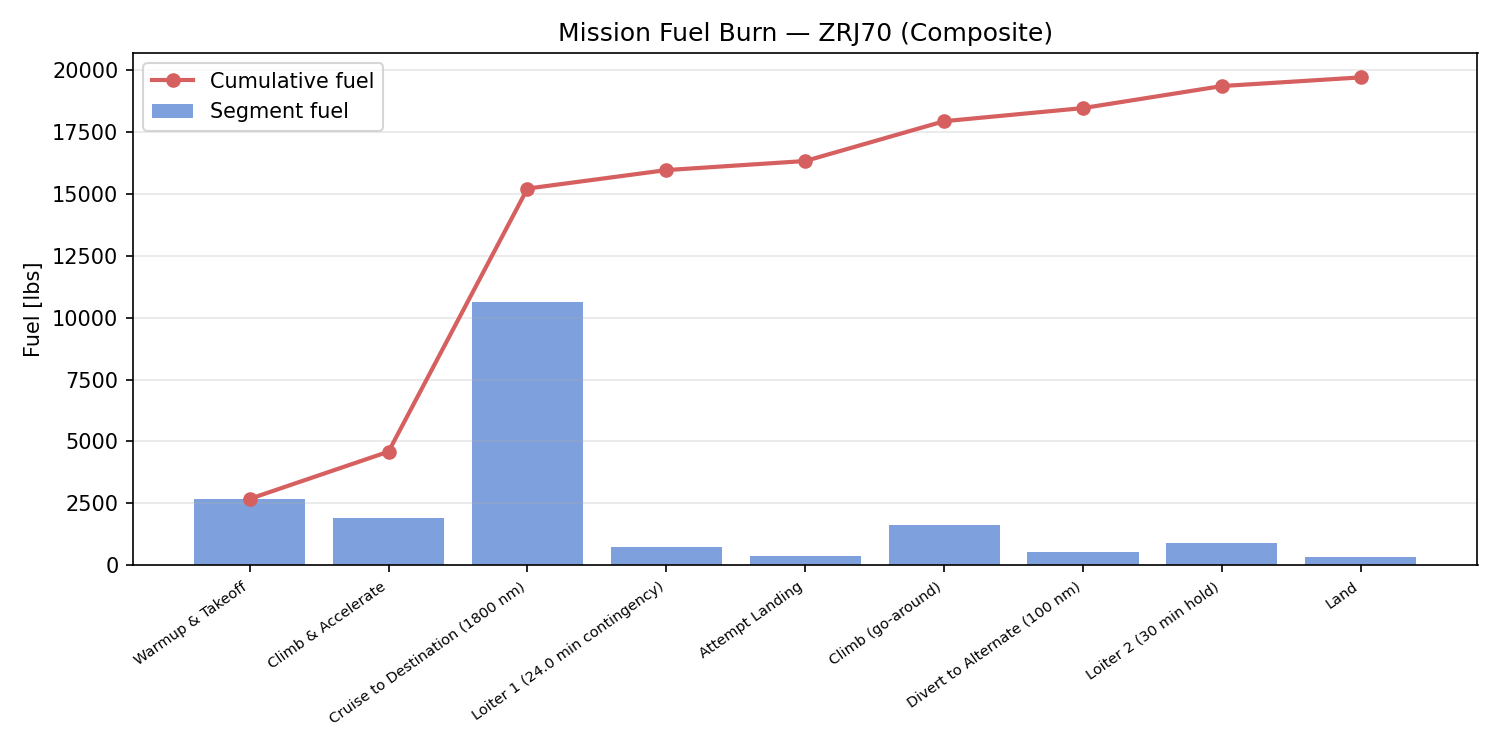
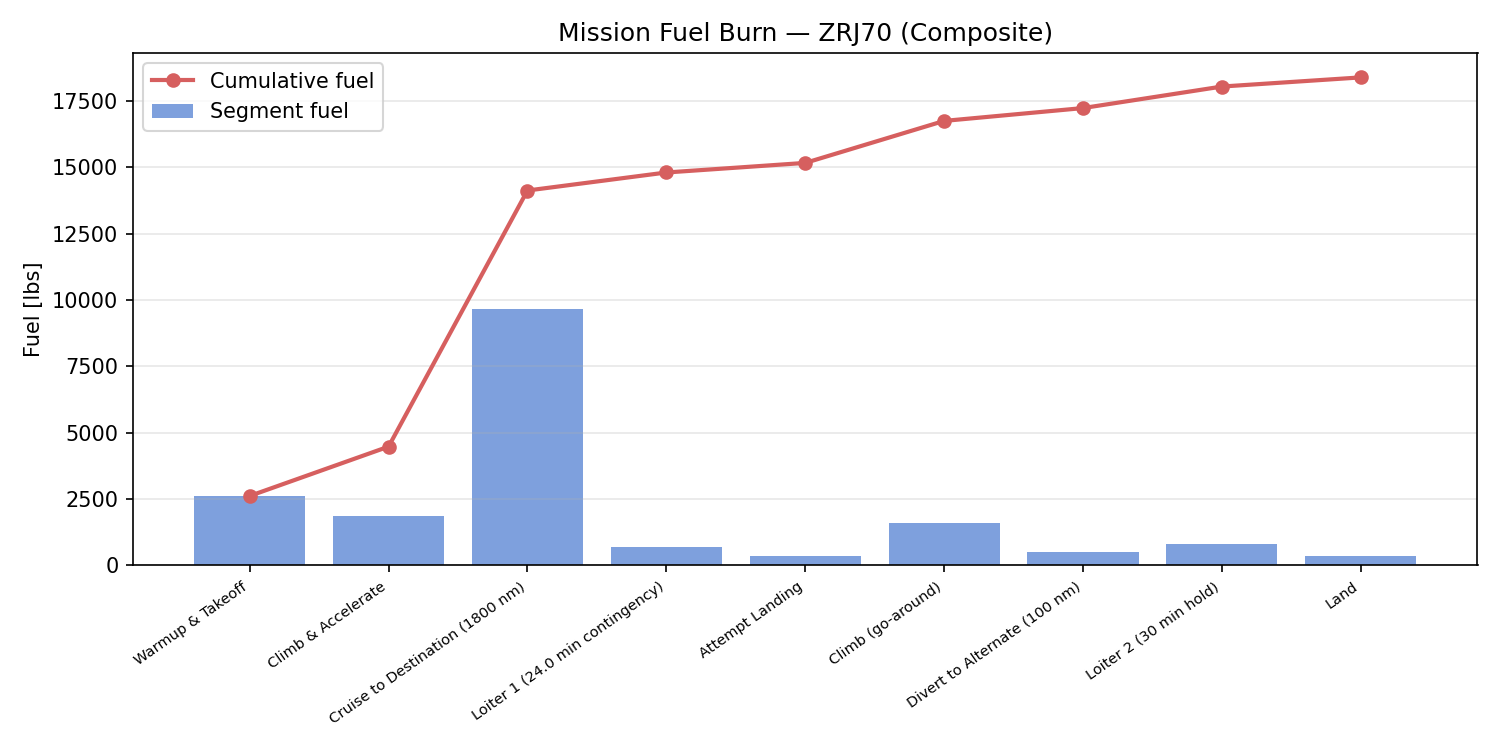
Update TSFC to realistic PW1200G values (0.46/0.37)
Replaced Raymer Table 3.3 era TSFC (0.50/0.40) with modern GTF
estimates for PW1200G at BPR 9. Updated all results, plots, and README.

diff --git a/data/ZRJ100.py b/data/ZRJ100.py
@@ -29,8 +29,8 @@ AIRCRAFT = {
 
     # --- Engine (PW1200G) ---
     "engine_name": "PW1200G",
-    "tsfc_cruise": 0.50,               # lb/(lb-hr), Raymer Table 3.3
-    "tsfc_loiter": 0.40,               # lb/(lb-hr), ~80% of cruise
+    "tsfc_cruise": 0.46,               # lb/(lb-hr), modern GTF at BPR 9
+    "tsfc_loiter": 0.37,               # lb/(lb-hr), ~80% of cruise
     "max_thrust_per_engine": 19_190,    # lbf, sea level static
     "num_engines": 2,
     "bypass_ratio": 9.0,

diff --git a/data/ZRJ50.py b/data/ZRJ50.py
@@ -30,8 +30,8 @@ AIRCRAFT = {
 
     # --- Engine (PW1200G) ---
     "engine_name": "PW1200G",
-    "tsfc_cruise": 0.50,               # lb/(lb-hr), Raymer Table 3.3
-    "tsfc_loiter": 0.40,               # lb/(lb-hr), ~80% of cruise
+    "tsfc_cruise": 0.46,               # lb/(lb-hr), modern GTF at BPR 9
+    "tsfc_loiter": 0.37,               # lb/(lb-hr), ~80% of cruise
     "max_thrust_per_engine": 19_190,    # lbf, sea level static
     "num_engines": 2,
     "bypass_ratio": 9.0,

diff --git a/data/ZRJ70.py b/data/ZRJ70.py
@@ -29,8 +29,8 @@ AIRCRAFT = {
 
     # --- Engine (PW1200G) ---
     "engine_name": "PW1200G",
-    "tsfc_cruise": 0.50,               # lb/(lb-hr), Raymer Table 3.3
-    "tsfc_loiter": 0.40,               # lb/(lb-hr), ~80% of cruise
+    "tsfc_cruise": 0.46,               # lb/(lb-hr), modern GTF at BPR 9
+    "tsfc_loiter": 0.37,               # lb/(lb-hr), ~80% of cruise
     "max_thrust_per_engine": 19_190,    # lbf, sea level static
     "num_engines": 2,
     "bypass_ratio": 9.0,

diff --git a/README.md b/README.md
@@ -33,7 +33,7 @@ python3 plots.py
 | Parameter | Value |
 |-----------|-------|
 | Engine | PW1200G (2 × 19,190 lbf SLS, BPR 9) |
-| TSFC | 0.50 cruise / 0.40 loiter [lb/(lb·hr)] |
+| TSFC | 0.46 cruise / 0.37 loiter [lb/(lb·hr)] |
 | Cruise | Mach 0.78 at 35,000 ft |
 | Wing Area | 1,016.58 ft² |
 | Aspect Ratio | 7.8 |
@@ -52,7 +52,7 @@ python3 plots.py
 | ZRJ100 (No Composite) | 100 | 23,380 | 1,200 | 0.01910 | 1.00 |
 | ZRJ50 (Composite) | 50 | 11,350 | 1,800* | 0.01843 | 0.97 |
 
-*Fixed W0 = 65,000 lbs, same airframe as ZRJ70 (We = 49,600 lbs). Mission is infeasible — see below.
+*Fixed W0 = 65,000 lbs, same airframe as ZRJ70 (We = 48,704 lbs). Mission is infeasible — see below.
 
 Composite factor of 0.97 reflects composite wing + tail with metal fuselage.
 
@@ -60,35 +60,35 @@ Composite factor of 0.97 reflects composite wing + tail with metal fuselage.
 
 | Parameter | ZRJ70 (Comp) | ZRJ100 (Comp) | ZRJ70 (No Comp) | ZRJ100 (No Comp) |
 |-----------|-------------|---------------|-----------------|-------------------|
-| W0 [lbs] | 89,332 | 93,598 | 93,133 | 97,231 |
-| We [lbs] | 49,600 | 51,251 | 52,652 | 54,268 |
-| Total Fuel [lbs] | 20,889 | 18,179 | 21,638 | 18,795 |
-| Trip Fuel [lbs] | 16,329 | 13,417 | 16,892 | 13,857 |
-| Reserve Fuel [lbs] | 4,560 | 4,761 | 4,745 | 4,938 |
-| T/W (SLS) | 0.430 | 0.410 | 0.412 | 0.395 |
-| W/S [psf] | 87.9 | 92.1 | 91.6 | 95.6 |
-| L/D cruise | 14.94 | 14.81 | 15.13 | 14.97 |
+| W0 [lbs] | 87,043 | 91,927 | 90,710 | 95,473 |
+| We [lbs] | 48,704 | 50,607 | 51,687 | 53,577 |
+| Total Fuel [lbs] | 19,495 | 17,152 | 20,180 | 17,728 |
+| Trip Fuel [lbs] | 15,168 | 12,604 | 15,679 | 13,012 |
+| Reserve Fuel [lbs] | 4,327 | 4,548 | 4,501 | 4,715 |
+| T/W (SLS) | 0.441 | 0.418 | 0.423 | 0.402 |
+| W/S [psf] | 85.6 | 90.4 | 89.2 | 93.9 |
+| L/D cruise | 14.81 | 14.73 | 15.01 | 14.90 |
 | (L/D)_max | 15.82 | 15.54 | 15.82 | 15.54 |
-| Growth Factor | 4.95 | 4.00 | 5.16 | 4.16 |
+| Growth Factor | 4.82 | 3.93 | 5.02 | 4.08 |
 
 ### ZRJ50 (Composite) — Same Airframe, Fixed W0 = 65,000 lbs
 
-CRJ550-style derivative: same airframe as ZRJ70 (We = 49,600 lbs), reconfigured to 50-seat cabin, constrained to W0 = 65,000 lbs.
+CRJ550-style derivative: same airframe as ZRJ70 (We = 48,704 lbs), reconfigured to 50-seat cabin, constrained to W0 = 65,000 lbs.
 
-**Result: Infeasible at 65,000 lbs.** Even at zero cruise range, overhead weight (We + min fuel + crew + payload = 69,252 lbs) exceeds the cap by 4,252 lbs. The minimum W0 for any useful mission is ~69,758 lbs.
+**Result: Infeasible at 65,000 lbs.** Even at zero cruise range, overhead weight (We + min fuel + crew + payload = 68,210 lbs) exceeds the cap by 3,210 lbs. The minimum W0 for any useful mission is ~68,586 lbs.
 
 W0 vs. maximum range (same airframe, same payload):
 
 | W0 [lbs] | Max Range [nm] |
 |-----------|---------------|
 | 65,000 | Infeasible |
-| 69,000 | Infeasible |
-| 71,000 | 290 |
-| 73,000 | 595 |
-| 75,000 | 899 |
-| 77,000 | 1,199 |
-| 79,000 | 1,498 |
-| 81,000 | 1,795 |
+| 68,000 | Infeasible |
+| 70,000 | 337 |
+| 72,000 | 671 |
+| 74,000 | 1,004 |
+| 76,000 | 1,334 |
+| 78,000 | 1,662 |
+| 80,000 | 1,987 |
 
 ## Methods
 
